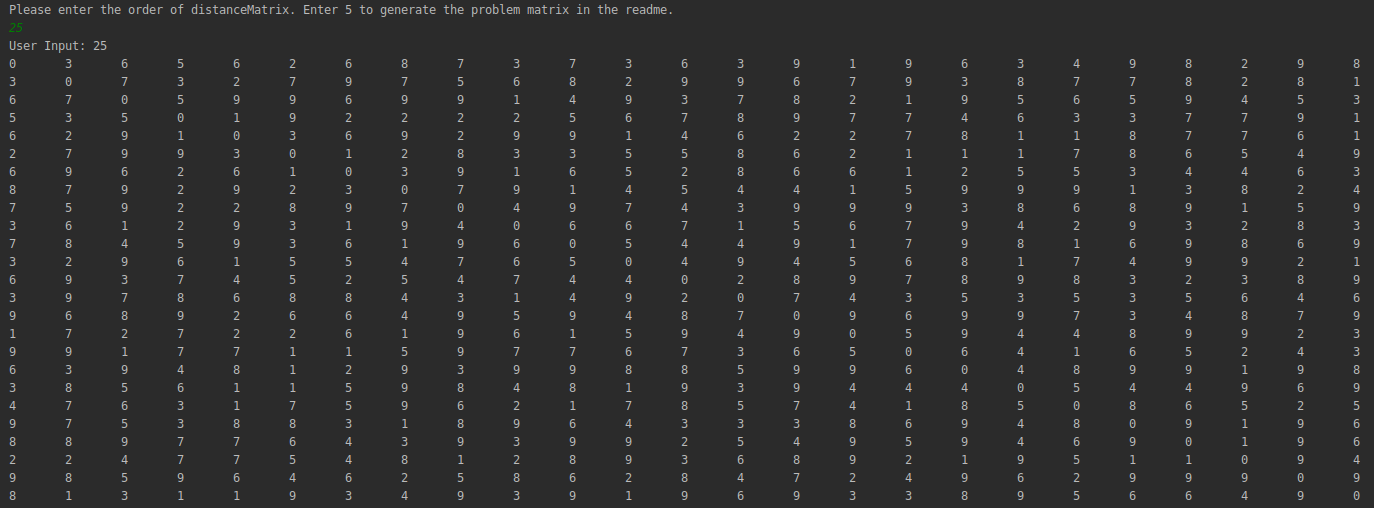
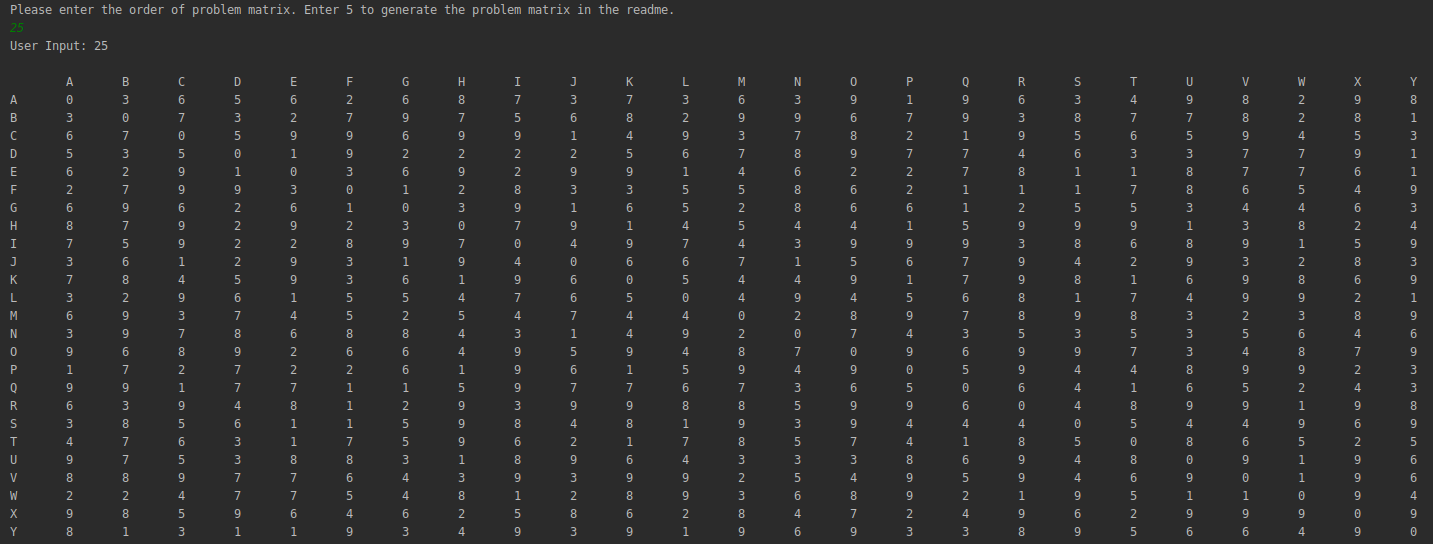
Improve display function
The displayMatrix() function was improved to show city names.

diff --git a/src/Matrix.cpp b/src/Matrix.cpp
@@ -31,7 +31,15 @@ void Matrix::populateMatrix() {
 }
 
 void Matrix::displayMatrix() {
+    std::cout << "\t\t";
+    for (int i = 0; i < order; i++) {	 	// Printing first row of citynames
+        char c = 65 + i;
+        std::cout <<  c <<"\t\t";
+    }
+    std::cout << std::endl;
     for (int i = 0; i < order; i++) {
+        char c = 65 + i;
+        std::cout <<  c <<"\t\t";
         for (int j = 0; j < order; j++) {
             std::cout << this->distanceMatrix[i][j] << "\t\t";
         }
@@ -49,7 +57,7 @@ void Matrix::defaultMatrix() {
                                {4, 4, 0, 5, 8},
                                {2, 6, 5, 0, 6},
                                {7, 3, 8, 6, 0}};
-    std::cout << "Using the sample matrix shown in readme." << std::endl;
+    std::cout << "Using problem matrix explained in readme." << std::endl;
     for (int i = 0; i < order; i++) {
         for (int j = 0; j < order; j++) {
             this->distanceMatrix[i][j] = defaultMatrix[i][j];

diff --git a/src/main.cpp b/src/main.cpp
@@ -17,7 +17,7 @@ void singleThreadBAndBTSP(int matrixOrder) {
     std::chrono::time_point<std::chrono::system_clock> start, end;
     Matrix problemMatrix(matrixOrder);
     std::cout << "User Input: ";
-    std::cout << problemMatrix.getOrder() << std::endl;
+    std::cout << problemMatrix.getOrder() << "\n" << std::endl;
     problemMatrix.displayMatrix();
 
     std::vector<std::vector<int>> edgeMatrix(matrixOrder, std::vector<int>(matrixOrder, 0));
@@ -60,7 +60,7 @@ void singleThreadBAndBTSP(int matrixOrder) {
 
 int main() {
     int matrixOrder;
-    std::cout << "Please enter the order of distanceMatrix. Enter 5 to generate the problem matrix in the readme."
+    std::cout << "Please enter the order of problem matrix. Enter 5 to generate the problem matrix in the readme."
               << std::endl;
     std::cin >> matrixOrder;
 

diff --git a/src/Node.cpp b/src/Node.cpp
@@ -147,7 +147,9 @@ void Node::printRoute() {
     for (int i = 0; i < matrixOrder; i++) {
         for (int j = i + 1; j < matrixOrder; j++) {
             if (nodeEdgeMatrix[i][j] == 1) {
-                std::cout << " " << i << " " << j << std::endl;
+                char c1 = 65 + i;
+                char c2 = 65 + j;
+                std::cout << "\t" << c1 << " " << c2 << std::endl;
             }
 
         }

diff --git a/README.md b/README.md
@@ -1,6 +1,6 @@
 # Travelling Salesman Problem
 
-The traveling salesman problem is a problem in graph theory requiring the most efficient (i.e., least total distance) [Hamiltonian cycle](http://mathworld.wolfram.com/HamiltonianCycle.html) a salesman can take through each of n cities. No general method of solution is known, and the problem is [NP-hard](http://mathworld.wolfram.com/NP-HardProblem.html).
+The **traveling salesman problem** is a problem in graph theory requiring the most efficient (i.e., least total distance) [Hamiltonian cycle](http://mathworld.wolfram.com/HamiltonianCycle.html) a salesman can take through each of **n cities**. No general method of solution is known, and the problem is [*NP-hard*](http://mathworld.wolfram.com/NP-HardProblem.html).
 
 ## Optimal Solution for Travelling Salesman Problem using Branch and Bound.
 
@@ -8,27 +8,28 @@ Consider the following graph:
 
 ![](./readme/problemGraph.png)
 
-It is required to minimize an objective cost function. The cost function can be defined as the minimum cost to explore any edge.  
+Consider edge **d**. If edge **d** has to be explored, it can be entered via the least cost *node* **(d, a)** and exit via the second least cost *node* **(d, c)**. So, in best-case scenario, the least cost associated with exploring **d**, through arriving and leaving via least expensive routes is *7*.
 
-For e.g, if edge **d** has to be explored, it can be entered via the least cost *node* **(d, a)** and exit via the second least cost *node* **(d, c)**. So, in best scenario, the least cost associated with exploring **d**, through arriving and leaving via least expensive routes is *7*.
-
-Using this information, a cost function is defined. The cost function calculates the least cost associated with exploring a node given some constraints:
+Using this information, a cost function is defined. The cost function is the minimum cost to explore any edge.  The cost function calculates the least cost associated with exploring a node given some constraints. For an optimal solution, the cost function needs to be minimized.
 
 ## Cost function
 
-The lower bound on the cost of visiting any edge is the sum of the least cost edges incident on it. Therefore, doing the same for all the edges will give a lowerbound on cost of visiting each node. The route cost of such a path is half of sum of all least cost edges. Let this be **leastCost**. 
-Therefore for the problem graph without any constraints, **leastCost** is 
+The lower bound on the cost of visiting any edge is the sum of the least cost edges incident on it. Therefore, doing the same for all the edges will give a lowerbound on cost of visiting each node. The complete trip cost of such a path (or route) is therefore half of sum of all least cost edges (every edge is considered twice while calculating lowerbound).
+
+Let this be **routeCost**. 
+Therefore for the problem graph without any constraints, **routeCost** is 
 
 	1/2 * (5 + 6 + 8 + 7 + 9) = 17.5
 
 
-The solution set S contains all the possible tours that can be completed in a given problem graph.
 ![](./readme/TSPequation.png)
 
-From the solution set S, a function is defined which goes over the edges in ascending order, i.e city 0 is start and city 1 is considered after city 0, and marks them for exclusion or inclusion and then calculates the lowerbound of a solution with or without a given node.
+From the solution set S, another function is defined which goes over the edges in ascending order and marks them for inclusion or exclusion.  
+
+That is, city 0 is start and city 1 is considered after city 0. The function marks node(cito 0, city 1) for exclusion / inclusion and then calculates the lowerbound of a solution with the associated constraints.
 ![](./readme/problemTours.png)
 
-Every time a new branch is created, the following information is updated. 
+Every time a new branch is created from this procedure, the following information is updated. 
 
 1. If excluding node (x, y) would make it impossible for x or y to have as many as two adjacent edges in the tour, then node (x, y) must be included.
 2. If including node (x, y) would cause x or y to have more than two edges adjacent in the tour, or would complete a non-tour cycle with edges already included, then node (x, y) must be excluded.
@@ -42,21 +43,22 @@ For e.g, **tours with ab and ac** necessitates the following updates:
 * edge e can not be reached by (a, e), because a already has two adjacent edges
 
 ## Formulation of Problem Matrix
+
 The problem assumes that all edges are connected to each other via bidirectional nodes,  
 i.e *node* **(a, d)** is same as *node* **(d, a)**.
 ![](./readme/problemSolution.png)
 ![](./readme/input5.png)
 
 ## Sequential Solution
-Time taken to solve a matrix of 25 cities without parallelization.
+Time taken to solve a problem matrix(or graph) of 25 edges(or cities) without parallelization.
 
 ### Randomly generated Problem Matrix
 ![](./readme/input25.png)
 
-### Result
 ![](./readme/result25.png)
 
 ## References
+
 * [**Game Theory Lab, Department of Computer Science and Automation, Indian Institute of Science Bangalore**](http://lcm.csa.iisc.ernet.in/dsa/node187.html)
 
 * [**Worlfram Mathworld**](http://mathworld.wolfram.com/TravelingSalesmanProblem.html)
